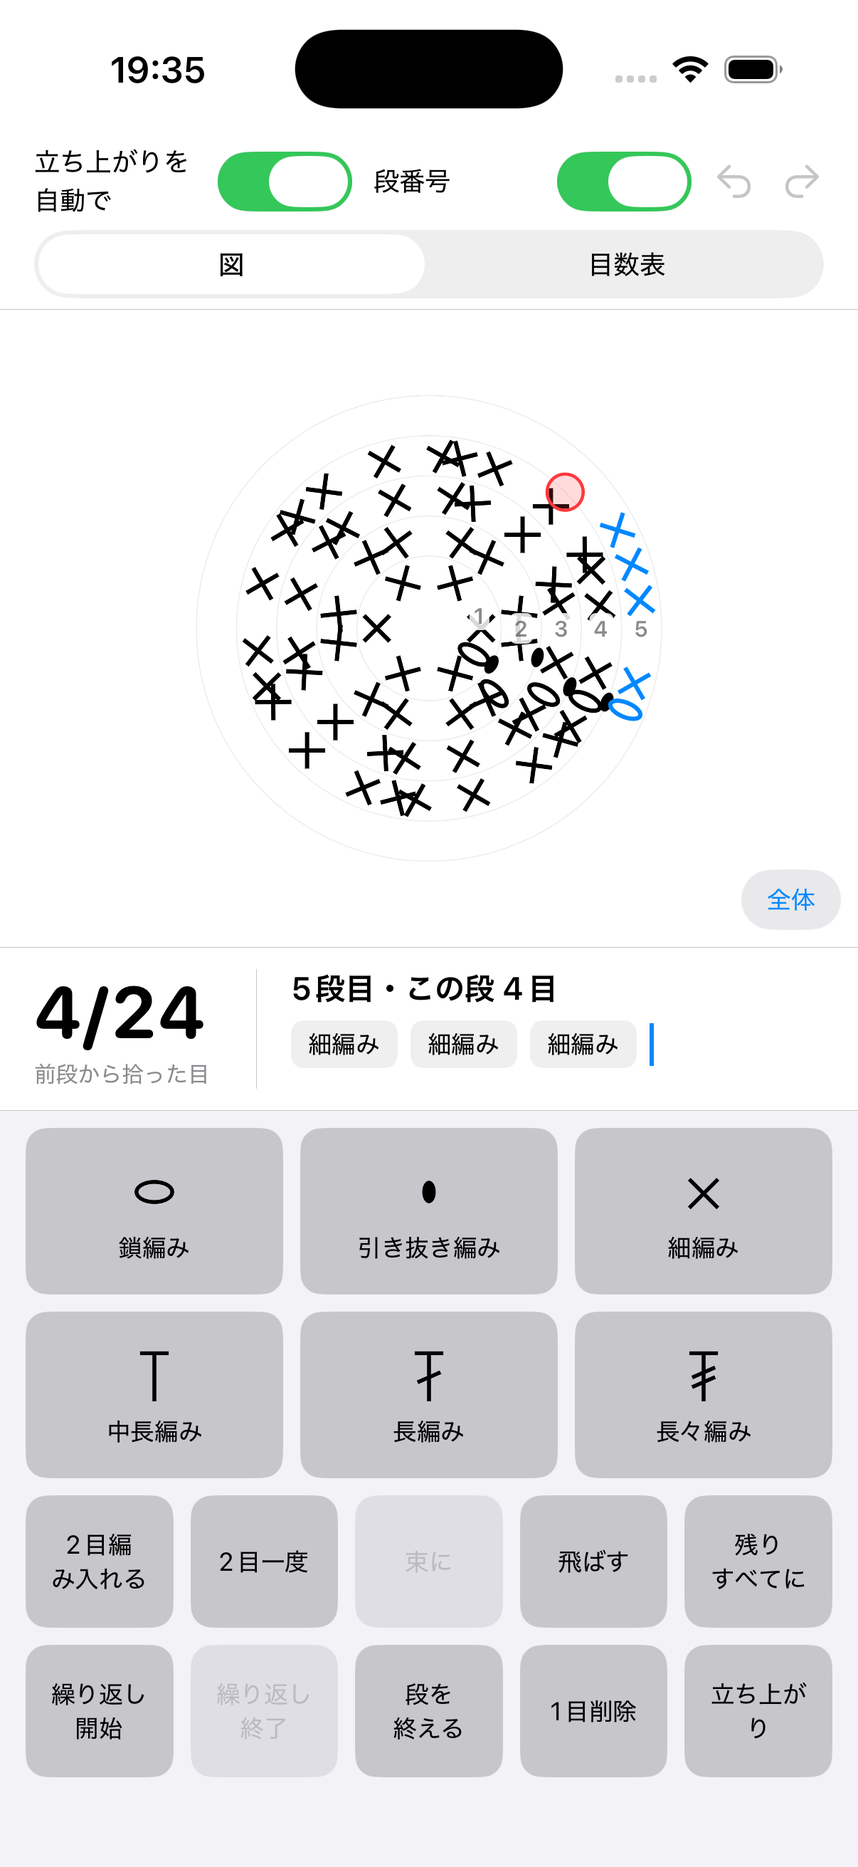
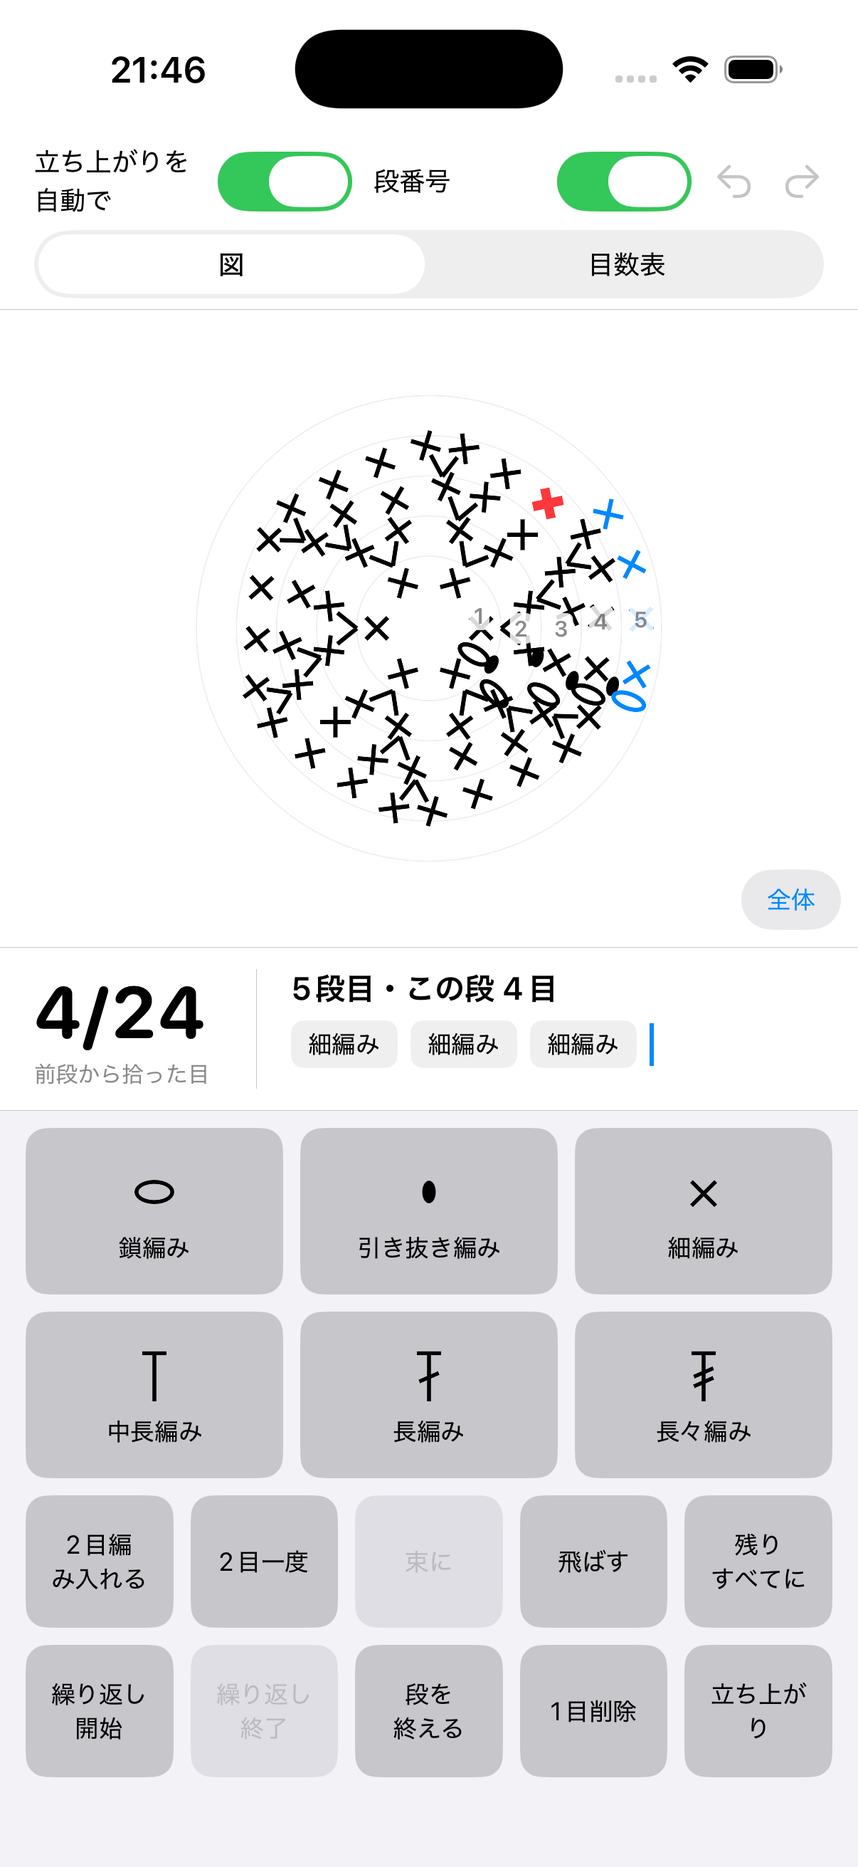
AMIZ-17 図の見た目の調整（増し目の記号の重なり、ハイライトの描き方）
開発者の指摘を受けた調整（plan.md フェーズ3-4）。

- CircularLayout：終わった段は頭を等間隔に並べ（実物の編み図と同じ、増し目のV字が重ならない）、入力中の段だけ前段の真上に置く。まとまりの大きさ sharedBaseCount を出力
- StitchSymbol：細編みの×を、増し目では頭側に置いて根元から脚（V字）、減らし目では根元側に置いて頭へ脚（逆V字）。×を少し小さく
- ChartView：次に拾う目のハイライトを赤い丸から「記号そのものを太い赤で描く」に変更
- テストを両モードに合わせて更新（合計77件）。tech-spec 8-1、スクリーンショットを更新

diff --git a/CrochetCore/Sources/CrochetCore/Layout/CircularLayout.swift b/CrochetCore/Sources/CrochetCore/Layout/CircularLayout.swift
@@ -5,11 +5,12 @@ import Foundation
 ///
 /// 考え方：
 /// - 段ごとの半径は、作り目からの段の高さ（鎖○目分）の累計
-/// - 目の「頭」は拾った前段の目の頭の真上（同じ角度）に置く。同じ目に複数編み入れた場合（増し目）は、
-///   前段の1目分の幅の中で均等に広げる。n目一度は拾った目の角度の中間。鎖編みは前後の目の間に均等に並べる
 /// - 「根元」は拾った前段の目の頭の角度に置く
-/// - これで、増減なしの段は放射状、増し目は左右対称のV字、減らし目は逆V字になり、
-///   拾いすぎや拾い残しはそのまま図のずれとして見える
+/// - **終わった段**：数える目の「頭」を円周に等間隔に並べる（実物の編み図と同じ）。並び全体の回転量は、
+///   頭と根元のずれの平均が 0 になるように決める。増し目は根元を共有して頭が広がる V字、減らし目は逆V字、
+///   増減なしの段は放射状になる。拾いすぎ・拾い残しは記号の傾きとして見える
+/// - **入力中の段**（最後の段で、まだ閉じていない）：頭を拾った前段の目の真上に置く。増し目は前段1目分の幅の中で
+///   均等に広げ、鎖は前後の目の間に均等に並べる。編んだところまでが前段の上に並び、円周に散らばらない
 /// - 角度は3時の位置が 0 で、画面上で反時計回りに進む
 public enum CircularLayout {
     public struct Options: Hashable, Sendable {
@@ -50,9 +51,12 @@ public enum CircularLayout {
                 return stitch.picks.map { previousAngle(at: $0, in: previousHeadAngles) }
             }
 
-            let headAngles = headAngles(
+            let isClosed = row.stitches.contains { $0.role == .closingSlipStitch }
+            let isLastRow = rowIndex == expansion.rows.count - 1
+            let (headAngles, groupSizes) = headAngles(
                 for: counted.map(\.element), baseAngles: baseAngles, rowIndex: rowIndex,
-                previousStep: previousStep, isClosed: row.stitches.contains { $0.role == .closingSlipStitch }
+                previousStep: previousStep, isClosed: isClosed,
+                followsBases: isLastRow && !isClosed, previousFirstHead: previousHeadAngles.first
             )
 
             var countedIndexByStitchIndex: [Int: Int] = [:]
@@ -74,6 +78,7 @@ public enum CircularLayout {
                     laidOut = make(
                         stitch, rowIndex: rowIndex, countedIndex: countedIndex,
                         headAngle: headAngle, outerRadius: outerRadius, bases: bases,
+                        sharedBaseCount: groupSizes[countedIndex],
                         center: center, options: options
                     )
                 } else {
@@ -112,33 +117,59 @@ public enum CircularLayout {
 
     // MARK: - 頭の角度
 
-    /// 数える目の頭の角度を決める
+    /// 数える目の頭の角度と、同じ根元を共有する目の数を決める
+    /// - Parameters:
+    ///   - followsBases: true なら入力中の段として前段の真上に置く。false なら終わった段として等間隔に並べる
     private static func headAngles(
         for counted: [ExpandedStitch], baseAngles: [[Double]], rowIndex: Int,
-        previousStep: Double, isClosed: Bool
-    ) -> [Double] {
+        previousStep: Double, isClosed: Bool, followsBases: Bool, previousFirstHead: Double?
+    ) -> (angles: [Double], groupSizes: [Int]) {
         let count = counted.count
-        guard count > 0 else { return [] }
+        guard count > 0 else { return ([], []) }
+
+        // 同じ編み入れ先を共有する続きの目（増し目）のまとまりの大きさ
+        var groupSizes = [Int](repeating: 1, count: count)
+        var groupStart = 0
+        while groupStart < count {
+            var end = groupStart
+            if !baseAngles[groupStart].isEmpty {
+                while end + 1 < count, counted[end + 1].picks == counted[groupStart].picks, !baseAngles[end + 1].isEmpty {
+                    end += 1
+                }
+            }
+            for stitchIndex in groupStart...end {
+                groupSizes[stitchIndex] = end - groupStart + 1
+            }
+            groupStart = end + 1
+        }
 
         // 1段目（わの作り目）：等間隔に1周
         if rowIndex == 0 {
-            return (0..<count).map { previousStep * Double($0) }
+            return ((0..<count).map { previousStep * Double($0) }, groupSizes)
+        }
+
+        // 終わった段：等間隔に1周。回転量は頭と根元のずれの平均が 0 になるように
+        if !followsBases {
+            let step = (2 * Double.pi) / Double(count)
+            var offsets: [Double] = []
+            for (index, bases) in baseAngles.enumerated() where !bases.isEmpty {
+                offsets.append(meanAngle(bases) - step * Double(index))
+            }
+            let rotation = offsets.isEmpty ? (previousFirstHead ?? 0) : meanAngle(offsets)
+            return ((0..<count).map { rotation + step * Double($0) }, groupSizes)
         }
 
         var angles = [Double?](repeating: nil, count: count)
 
-        // 根元のある目：同じ編み入れ先を共有する続きの目をまとめ、前段の1目分の幅の中で均等に広げる
+        // 入力中の段：根元のある目は、まとまりごとに前段の1目分の幅の中で均等に広げる
         var index = 0
         while index < count {
             guard !baseAngles[index].isEmpty else {
                 index += 1
                 continue
             }
-            var end = index
-            while end + 1 < count, counted[end + 1].picks == counted[index].picks, !baseAngles[end + 1].isEmpty {
-                end += 1
-            }
-            let groupSize = end - index + 1
+            let groupSize = groupSizes[index]
+            let end = index + groupSize - 1
             let base = meanAngle(baseAngles[index])
             for (position, stitchIndex) in (index...end).enumerated() {
                 angles[stitchIndex] = base + previousStep * ((Double(position) + 0.5) / Double(groupSize) - 0.5)
@@ -186,7 +217,7 @@ public enum CircularLayout {
             index = end + 1
         }
 
-        return angles.map { $0 ?? 0 }
+        return (angles.map { $0 ?? 0 }, groupSizes)
     }
 
     // MARK: - 補助
@@ -194,7 +225,7 @@ public enum CircularLayout {
     /// 1目分の `LaidOutStitch` を作る
     private static func make(
         _ stitch: ExpandedStitch, rowIndex: Int, countedIndex: Int?,
-        headAngle: Double, outerRadius: Double, bases: [CGPoint],
+        headAngle: Double, outerRadius: Double, bases: [CGPoint], sharedBaseCount: Int = 1,
         center: CGPoint, options: Options
     ) -> LaidOutStitch {
         let head = point(center: center, radius: outerRadius, angle: headAngle)
@@ -211,7 +242,7 @@ public enum CircularLayout {
         }
         return LaidOutStitch(
             ref: stitch.ref, kind: stitch.kind, role: stitch.role, into: stitch.into, isCounted: stitch.isCounted,
-            rowIndex: rowIndex, countedIndex: countedIndex, head: head, bases: bases,
+            rowIndex: rowIndex, countedIndex: countedIndex, head: head, bases: bases, sharedBaseCount: sharedBaseCount,
             angle: direction, height: drawHeight(of: stitch, options: options),
             polarAngle: headAngle, polarRadius: outerRadius
         )

diff --git a/Amiz/Chart/StitchSymbol.swift b/Amiz/Chart/StitchSymbol.swift
@@ -14,15 +14,27 @@ enum StitchSymbol {
         var lineWidth: CGFloat = 1.6
 
         /// 記号の横幅（×の腕の長さや T の横棒）
-        var armLength: CGFloat { unit * 0.32 }
+        var armLength: CGFloat { unit * 0.27 }
         /// 鎖の楕円の大きさ
         var chainSize: CGSize { CGSize(width: unit * 0.8, height: unit * 0.45) }
         /// 引き抜きの楕円の大きさ
         var slipSize: CGSize { CGSize(width: unit * 0.5, height: unit * 0.3) }
     }
 
+    /// 細編みの×をどこに置くか（domain-spec 11 の描き分け）
+    enum CrossPlacement {
+        /// 普通の目：根元と頭の中間に×だけ
+        case middle
+        /// n目編み入れる：×を頭側に置き、共有する根元から脚を伸ばす（V字）
+        case nearHead
+        /// n目一度：×を根元側に置き、共有する頭へ脚を集める（逆V字）
+        case nearRoot
+    }
+
     /// 線で描く部分の Path
-    static func strokePath(kind: StitchKind, from root: CGPoint, to head: CGPoint, style: Style) -> Path {
+    static func strokePath(
+        kind: StitchKind, from root: CGPoint, to head: CGPoint, style: Style, cross: CrossPlacement = .middle
+    ) -> Path {
         var path = Path()
         let (d, n) = axes(from: root, to: head)
         let a = style.armLength
@@ -36,8 +48,22 @@ enum StitchSymbol {
             return Path()  // 塗りだけ
 
         case .singleCrochet:
-            // ×：根元と頭の中間に、線分に対して45度の腕
-            let c = midpoint(root, head)
+            // ×：線分に対して45度の腕。置き場所は増し目・減らし目で変える
+            let c: CGPoint
+            switch cross {
+            case .middle:
+                c = midpoint(root, head)
+            case .nearHead:
+                c = head - d * a
+                // 根元から×の下端まで脚
+                path.move(to: root)
+                path.addLine(to: c - d * a)
+            case .nearRoot:
+                c = root + d * a
+                // ×の上端から頭まで脚
+                path.move(to: c + d * a)
+                path.addLine(to: head)
+            }
             path.move(to: c + (d + n) * -a)
             path.addLine(to: c + (d + n) * a)
             path.move(to: c + (d - n) * -a)
@@ -104,8 +130,15 @@ enum StitchSymbol {
         case .regular:
             // 根元ごとに1本描く。n目一度は根元が複数あり、頭で集まる
             let roots = stitch.bases.isEmpty ? [virtualRoot(for: stitch, style: style)] : stitch.bases
+            let cross: CrossPlacement = if stitch.bases.count > 1 {
+                .nearRoot
+            } else if stitch.sharedBaseCount > 1 {
+                .nearHead
+            } else {
+                .middle
+            }
             for root in roots {
-                let stroke = strokePath(kind: stitch.kind, from: root, to: stitch.head, style: style)
+                let stroke = strokePath(kind: stitch.kind, from: root, to: stitch.head, style: style, cross: cross)
                 if !stroke.isEmpty {
                     context.stroke(stroke, with: .color(color), lineWidth: style.lineWidth)
                 }
@@ -214,14 +247,14 @@ struct StitchSymbolCatalogView: View {
                 let baseline = size.height * 0.85
                 let top = baseline - style.unit
                 var x: CGFloat = 30
-                // 細編み2目編み入れる（根元を共有）
+                // 細編み2目編み入れる（根元を共有、×は頭側）
                 for dx in [-10.0, 10.0] {
-                    context.stroke(StitchSymbol.strokePath(kind: .singleCrochet, from: CGPoint(x: x, y: baseline), to: CGPoint(x: x + dx, y: top), style: style), with: .color(.primary), lineWidth: style.lineWidth)
+                    context.stroke(StitchSymbol.strokePath(kind: .singleCrochet, from: CGPoint(x: x, y: baseline), to: CGPoint(x: x + dx, y: top), style: style, cross: .nearHead), with: .color(.primary), lineWidth: style.lineWidth)
                 }
                 x += 60
-                // 細編み2目一度（頭で集まる）
+                // 細編み2目一度（頭で集まる、×は根元側）
                 for dx in [-10.0, 10.0] {
-                    context.stroke(StitchSymbol.strokePath(kind: .singleCrochet, from: CGPoint(x: x + dx, y: baseline), to: CGPoint(x: x, y: top), style: style), with: .color(.primary), lineWidth: style.lineWidth)
+                    context.stroke(StitchSymbol.strokePath(kind: .singleCrochet, from: CGPoint(x: x + dx, y: baseline), to: CGPoint(x: x, y: top), style: style, cross: .nearRoot), with: .color(.primary), lineWidth: style.lineWidth)
                 }
                 x += 60
                 // 長編み3目編み入れる

diff --git a/CrochetCore/Tests/CrochetCoreTests/Layout/CircularLayoutTests.swift b/CrochetCore/Tests/CrochetCoreTests/Layout/CircularLayoutTests.swift
@@ -53,12 +53,12 @@ struct CircularLayoutTests {
             #expect(stitches.allSatisfy { abs($0.polarRadius - layout.rings[row].outerRadius) < 1e-9 })
         }
 
-        // 1段目と2段目（全目に増し目）は等間隔
-        for (row, count) in [(0, 6), (1, 12)] {
+        // 終わった段はすべて等間隔（実物の編み図と同じ）
+        for (row, count) in expectedCounts.enumerated() {
             let stitches = countedStitches(of: layout, row: row)
             let step = twoPi / Double(count)
             for pair in zip(stitches, stitches.dropFirst()) {
-                #expect(abs(normalized(pair.1.polarAngle - pair.0.polarAngle) - step) < 1e-9)
+                #expect(abs(normalized(pair.1.polarAngle - pair.0.polarAngle) - step) < 1e-9, "\(row + 1)段目は等間隔")
             }
         }
 
@@ -87,8 +87,8 @@ struct CircularLayoutTests {
             let baseAngle = atan2(-Double(base.y), Double(base.x))
             #expect(sameAngle(baseAngle, previous.polarAngle))
 
-            // 頭は前段の1目分の幅（2π/6）の中で均等に：根元の角度の前後に 1/4 ずつ（V字が左右対称）
-            let quarter = twoPi / 6 / 4
+            // 頭は根元の角度の前後に半歩ずつ（V字が左右対称）
+            let quarter = twoPi / 12 / 2
             #expect(sameAngle(first.polarAngle, previous.polarAngle - quarter))
             #expect(sameAngle(second.polarAngle, previous.polarAngle + quarter))
         }
@@ -182,18 +182,32 @@ struct CircularLayoutTests {
         #expect(layout.nearestStitch(to: CGPoint(x: 100, y: 100), maxDistance: 1) == nil)
     }
 
-    @Test("入力中の段：編んだ目は拾った前段の目の真上に置かれ、円周に散らばらない")
+    @Test("入力中の段：編んだ目は拾った前段の目の真上に置かれ、円周に散らばらない。増し目は前段1目分の幅の中で広がる")
     func rowInProgressFollowsBases() {
-        // 5段目（前段24目）を4目だけ入力した状態
+        // 5段目（前段24目）を「細編み4目、増し目」だけ入力した状態
         var pattern = TestPatterns.tc1()
-        pattern.rows[4] = Row(steps: [.turningChain(1)] + TestPatterns.stitches(.singleCrochet, 4))
+        pattern.rows[4] = Row(steps: [.turningChain(1)] + TestPatterns.stitches(.singleCrochet, 4) + [.increase(.singleCrochet)])
         let layout = pattern.circularLayout()
         let row5 = countedStitches(of: layout, row: 4)
-        #expect(row5.count == 4)
+        #expect(row5.count == 6)
 
-        for (index, stitch) in row5.enumerated() {
+        for index in 0..<4 {
             let previous = layout.countedStitch(rowIndex: 3, countedIndex: index)!
-            #expect(sameAngle(stitch.polarAngle, previous.polarAngle))
+            #expect(sameAngle(row5[index].polarAngle, previous.polarAngle))
+        }
+        let base = layout.countedStitch(rowIndex: 3, countedIndex: 4)!.polarAngle
+        let quarter = twoPi / 24 / 4
+        #expect(sameAngle(row5[4].polarAngle, base - quarter))
+        #expect(sameAngle(row5[5].polarAngle, base + quarter))
+        #expect(row5[4].sharedBaseCount == 2)
+        #expect(row5[3].sharedBaseCount == 1)
+
+        // 段を終える（閉じる）と等間隔になる
+        pattern.rows[4].steps.append(.closeRound())
+        let closed = countedStitches(of: pattern.circularLayout(), row: 4)
+        let step = twoPi / 6
+        for pair in zip(closed, closed.dropFirst()) {
+            #expect(abs(normalized(pair.1.polarAngle - pair.0.polarAngle) - step) < 1e-9)
         }
     }
 

diff --git a/Amiz/Chart/ChartView.swift b/Amiz/Chart/ChartView.swift
@@ -54,21 +54,16 @@ struct ChartView: View {
             context.stroke(Path(ellipseIn: rect), with: .color(.secondary.opacity(0.15)), lineWidth: 0.5)
         }
 
-        // 目
+        // 目。次に拾う前段の目は記号そのものを太い赤で描く（ハイライト）
+        let highlightStyle = StitchSymbol.Style(unit: style.unit, lineWidth: style.lineWidth * 2.2)
         for stitch in layout.stitches {
             let scaled = transform.apply(to: stitch)
-            let isCurrent = stitch.rowIndex == currentRowIndex
-            let color: Color = isCurrent ? .accentColor : .primary
-            StitchSymbol.draw(scaled, in: &context, color: color, style: style)
-        }
-
-        // 次に拾う目のハイライト（頭の周りに丸）
-        if let highlighted {
-            let head = transform.toScreen(highlighted.head)
-            let radius = transform.unit * 0.45
-            let rect = CGRect(x: head.x - radius, y: head.y - radius, width: radius * 2, height: radius * 2)
-            context.fill(Path(ellipseIn: rect), with: .color(.red.opacity(0.18)))
-            context.stroke(Path(ellipseIn: rect), with: .color(.red), lineWidth: 1.5)
+            if let highlighted, stitch.ref == highlighted.ref {
+                StitchSymbol.draw(scaled, in: &context, color: .red, style: highlightStyle)
+            } else {
+                let isCurrent = stitch.rowIndex == currentRowIndex
+                StitchSymbol.draw(scaled, in: &context, color: isCurrent ? .accentColor : .primary, style: style)
+            }
         }
 
         // 段番号（段の始まりの少し手前に置く）

diff --git a/CrochetCore/Sources/CrochetCore/Layout/ChartLayout.swift b/CrochetCore/Sources/CrochetCore/Layout/ChartLayout.swift
@@ -19,6 +19,8 @@ public struct LaidOutStitch: Hashable, Sendable {
     public var head: CGPoint
     /// 記号の根元の位置。鎖編みなど前段を拾わない目は空、普通の目は1つ、n目一度は n 個
     public var bases: [CGPoint]
+    /// 同じ根元を共有する目の数（n目編み入れるなら n。普通の目は 1）。記号の描き分けに使う（domain-spec 11）
+    public var sharedBaseCount: Int
     /// 記号の向き（画面座標のラジアン。根元から頭へ向かう方向。根元がなければ放射方向）
     public var angle: Double
     /// 記号の長さ（鎖何目分か）
@@ -30,8 +32,8 @@ public struct LaidOutStitch: Hashable, Sendable {
 
     public init(
         ref: StitchRef, kind: StitchKind, role: ExpandedStitch.Role, into: Placement, isCounted: Bool,
-        rowIndex: Int, countedIndex: Int?, head: CGPoint, bases: [CGPoint], angle: Double, height: Double,
-        polarAngle: Double, polarRadius: Double
+        rowIndex: Int, countedIndex: Int?, head: CGPoint, bases: [CGPoint], sharedBaseCount: Int = 1,
+        angle: Double, height: Double, polarAngle: Double, polarRadius: Double
     ) {
         self.ref = ref
         self.kind = kind
@@ -42,6 +44,7 @@ public struct LaidOutStitch: Hashable, Sendable {
         self.countedIndex = countedIndex
         self.head = head
         self.bases = bases
+        self.sharedBaseCount = sharedBaseCount
         self.angle = angle
         self.height = height
         self.polarAngle = polarAngle

diff --git a/docs/tech-spec.md b/docs/tech-spec.md
@@ -248,14 +248,14 @@
 - 最後に、段全体で記号が重ならないよう角度を調整する
 - 記号の向き：根元が編み入れ先の方向を向くように回転させる（ドメイン仕様12）
 
-**具体化（フェーズ3-1・3-3）**：上の4点を、次の手順で実現する。
+**具体化（フェーズ3-1〜3-4）**：上の4点を、次の手順で実現する。
 - 段の内側の半径＝前の段の外側の半径、外側の半径＝内側＋その段で一番高い目の高さ（下限1）。わの作り目の穴の半径は 0.8
-- **目の「頭」は拾った前段の目の頭の真上（同じ角度）に置く**。同じ目に複数編み入れた場合（増し目）は、前段の1目分の幅の中で均等に広げる（2目なら ±1/4）。n目一度は拾った目の角度の中間。鎖編み（根元なし）は前後の根元のある目の間に均等に並べる。「根元」は拾った前段の目の頭の角度
-- これで、増減なしの段は放射状、増し目は左右対称のV字、減らし目は逆V字になり、記号は重ならない。拾いすぎや拾い残しはそのまま図のずれとして見える。入力中の段も編んだところまでが前段の真上に並ぶ
+- 「根元」は拾った前段の目の頭の角度に置く
+- **終わった段**（閉じた段、または最後でない段）：数える目の「頭」を円周に等間隔に並べる（実物の編み図と同じ）。並び全体の回転量は、頭と根元の角度差の平均が 0 になるように決める。増し目は根元を共有して頭が広がる V字、減らし目は逆V字、増減なしの段は放射状になり、拾いすぎ・拾い残しは記号の傾きとして見える
+- **入力中の段**（最後の段で、まだ閉じていない）：頭を拾った前段の目の真上に置く。増し目は前段1目分の幅の中で均等に広げ、鎖は前後の目の間に均等に並べる。編んだところまでが前段の上に並び、円周に散らばらない。段を終えると等間隔に切り替わる
 - 1段目（わの作り目）は等間隔に1周。数えない立ち上がり（鎖1目）は段の始めの半歩手前、段を閉じる引き抜きは段の終わりの半歩後ろ
 - 角度は3時の位置が 0 で、画面上で反時計回りに進む
-- 最初に試した「段の目を等間隔に1周に並べる」方式は、入力中の段が円周に散らばるためやめた
-- この方針で実物に近い見た目になるかはフェーズ3-4 で判断する（13章）
+- 記号の描き分け（ドメイン仕様11）：細編みの×は普通の目では根元と頭の中間、n目編み入れるでは頭側に置いて共有する根元から脚を伸ばし（V字）、n目一度では根元側に置いて頭へ脚を集める（逆V字）。T 系の目は縦線がそのまま脚になる
 
 ### 8-2. 平面図（往復編み）
 
